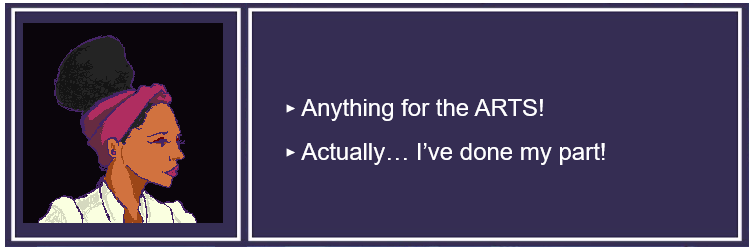
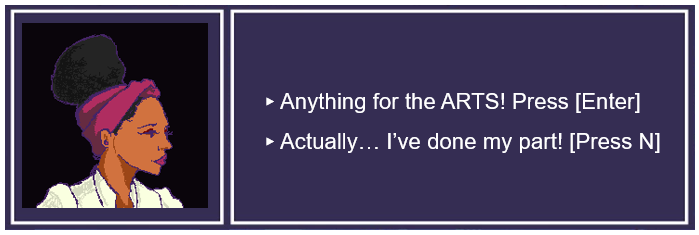
dialogue done

diff --git a/dialoge.js b/dialoge.js
@@ -6,7 +6,16 @@ function firstDialogue() {
             context.clearRect(25, 313,450, 147);
             return
         }
-        else {
+        else if (imgCounter === 4) {
+            const image = new Image();
+            image.src = `/Dialogues/D${imgCounter}.PNG`
+            image.addEventListener("load", () => {
+                context.drawImage(image,25,313,450,147);
+            })
+            imgCounter ++;
+            return
+        }
+        else  {
             const image = new Image();
             image.src = `/Dialogues/D${imgCounter}.PNG`
             image.addEventListener("load", () => {
@@ -22,6 +31,14 @@ function secondDialogue() {
         context.clearRect(25, 313,450, 147);
         return
     }
+    else if (imgCounter === 9) {
+        const image = new Image();
+        image.src = `/Dialogues/D${imgCounter}.PNG`
+        image.addEventListener("load", () => {
+            context.drawImage(image,25,313,450,147);
+        })
+        imgCounter ++;
+        return }
     else {
         const image = new Image();
             image.src = `/Dialogues/D${imgCounter}.PNG`
@@ -36,6 +53,14 @@ function thirdDialogue() {
         context.clearRect(25, 313,450, 147);
         return
     }
+    else if (imgCounter === 14) {
+        const image = new Image();
+        image.src = `/Dialogues/D${imgCounter}.PNG`
+        image.addEventListener("load", () => {
+            context.drawImage(image,25,313,450,147);
+        })
+        imgCounter ++;
+        return }
     else {
         const image = new Image();
         image.src = `/Dialogues/D${imgCounter}.PNG`
